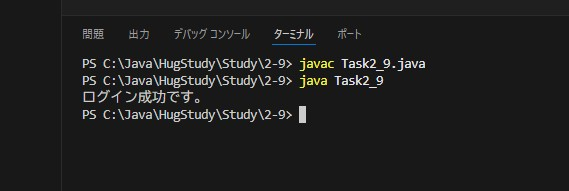
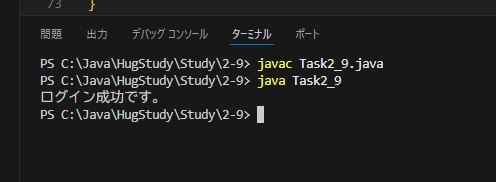
2-9修正2

diff --git a/Study/2-9/Task2_9.java b/Study/2-9/Task2_9.java
@@ -45,19 +45,19 @@ public class Task2_9 {
     // ① 「name」の値が「USER_NAME」と等しく、「 pass 」の値が「USER_PASSWORD」と等しい場合。
     // 定数を使用して「 ログイン成功です。 」と出力して下さい。
 
-    if (name.equals("alice") && pass.equals("alice123")) {
+    if (name.equals(USER_NAME) && pass.equals(USER_PASSWORD)) {
         System.out.println(CONST_MSG_SUCCESS);
 
     // ② 「USER_NAME」の値のみ等しい場合。
     // 定数を使用して「 パスワードに誤りがあります。 」 と出力して下さい。
 
-    } else if (name.equals("alice")) {
+    } else if (name.equals(USER_NAME)) {
       System.out.println(CONST_MSG_ERROR_PASS);
 
     // ③ 「USER_PASSWORD」の値のみ等しい場合。
     //定数を使用して「 名前に誤りがあります。 」と出力して下さい。
 
-    } else if (pass.equals("alice123")) {
+    } else if (pass.equals(USER_PASSWORD)) {
       System.out.println(CONST_MSG_ERROR_NAME);
 
     // ④ 「USER_NAME」も「USER_PASSWORD」の値も間違っていた場合。
